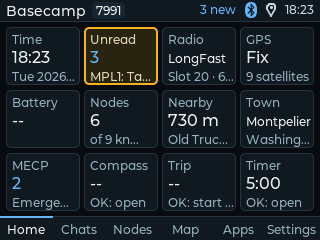
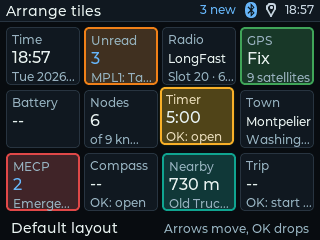
Front page: the Home picture shows tiles in colors and one being moved

diff --git a/index.html b/index.html
@@ -21,7 +21,7 @@
 <meta property="og:image" content="https://jinxmesh.com/site/og.png">
 <meta property="og:image:width" content="1200">
 <meta property="og:image:height" content="630">
-<meta property="og:image:alt" content="The JinxMesh logo next to the Home screen of a ThinkNode M9 running JinxMesh">
+<meta property="og:image:alt" content="The JinxMesh logo next to the Home screen of a ThinkNode M9 running JinxMesh, with colored tiles being arranged">
 <meta name="twitter:card" content="summary_large_image">
 <meta name="twitter:title" content="JinxMesh: Meshtastic for the ThinkNode M9, driven by its keys">
 <meta name="twitter:description" content="Free firmware that replaces the touch interface on the Elecrow ThinkNode M9 with one made for its keyboard.">
@@ -146,13 +146,13 @@
   </div>
   <figure class="device rotate" style="margin:0" id="rotate">
     <div class="frames">
-      <img src="site/home.png" width="320" height="240" alt="The JinxMesh Home screen: twelve tiles showing time, unread messages, radio, GPS, battery, nodes, nearest node, town, emergency messages, compass, trip and timer" data-caption="Home: twelve live tiles">
+      <img src="site/home.png" width="320" height="240" alt="The Home tiles being arranged: five tiles have colors of their own, and the Timer tile is lifted and being carried to a new place" data-caption="Home: move the tiles, pick their colors">
       <img src="site/chat.png" width="320" height="240" alt="A channel chat with a quoted reply and a message being typed" data-caption="Chats, with quoted replies" hidden>
       <img src="site/map.png" width="320" height="240" alt="A vector map with contour lines, roads, trails and two nodes marked" data-caption="Offline vector maps" hidden>
       <img src="site/nearby.png" width="320" height="240" alt="The Nearby app: lines from the device to the nodes around it, with the distance and bearing of the nearest" data-caption="Nearby: who is where" hidden>
       <img src="site/apps.png" width="320" height="240" alt="The Apps tab listing emergency messages, Nearby, Navigate, Town locator, Compass, Trip and Wardrive" data-caption="Apps for the field" hidden>
     </div>
-    <figcaption id="rotate-caption">Home: twelve live tiles</figcaption>
+    <figcaption id="rotate-caption">Home: move the tiles, pick their colors</figcaption>
     <div class="dots" id="rotate-dots" aria-hidden="true"><i></i><i></i><i></i><i></i><i></i></div>
   </figure>
 </div>
